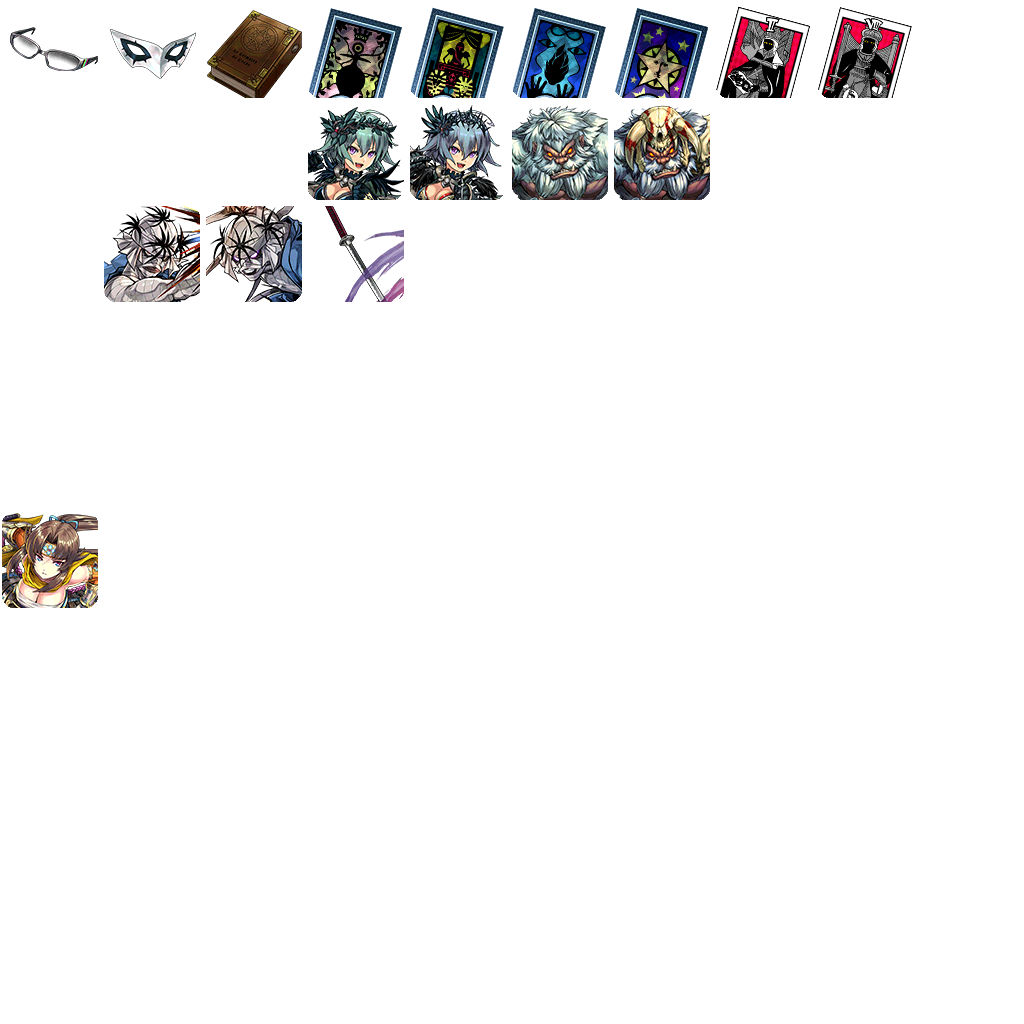
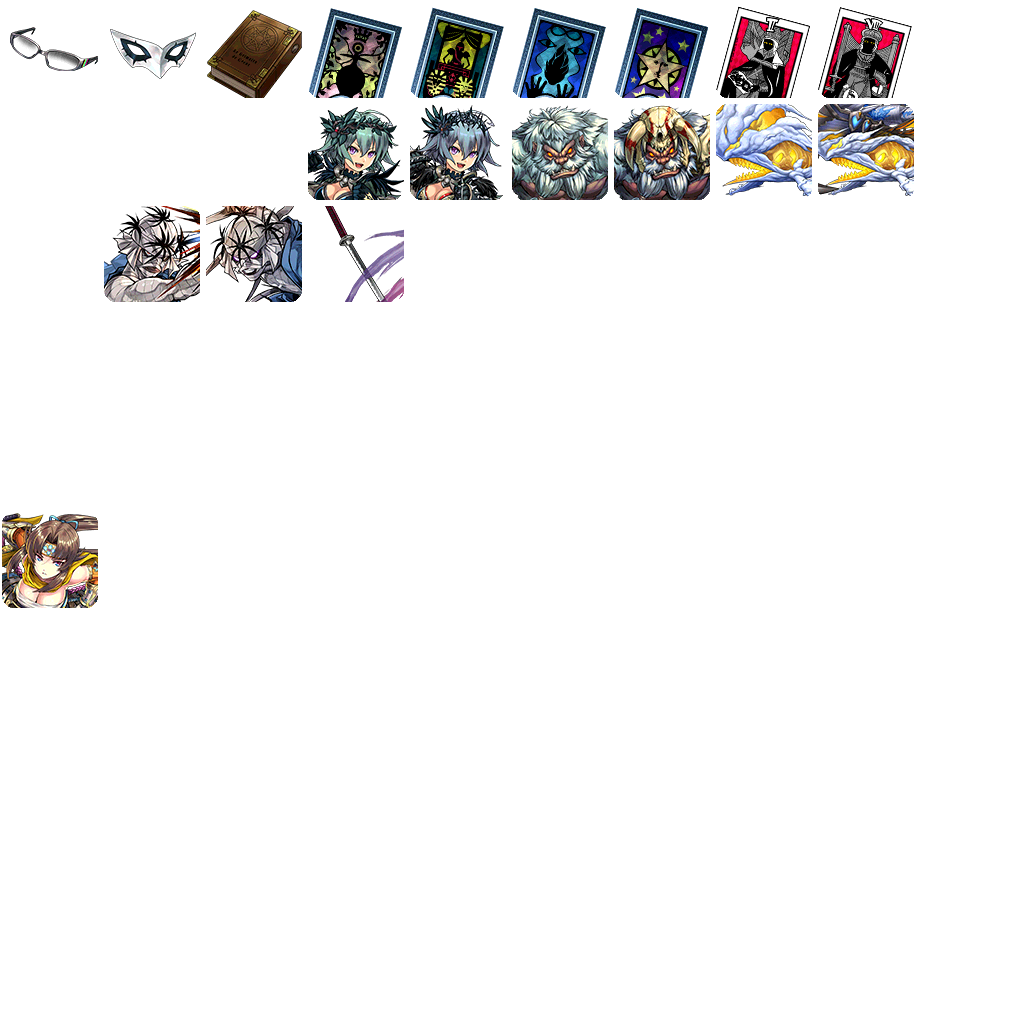
新增白鲸

Changed region(s): [[0.6875, 0.0938, 0.9062, 0.1875]]

diff --git a/生成二技宠物JSON.js b/生成二技宠物JSON.js
@@ -66,8 +66,6 @@ var monsterList = [
     {group: "未分类降临",ids: [
         2263, //刻薄的冻冥魔・靛蓝魔女
         3327, //妖精森之女王・蒂坦尼娅
-        4358, //灼林的魔獄獸・蠍獅
-        4417, //輝山之魔原獣・大腳怪
     ]},
     {group: "三神面转生",ids: [
         2898, //神去的毒蛇・耶梦加得=重生
@@ -113,6 +111,11 @@ var monsterList = [
         3017, //闘機帝・另一自由之靈
         3155, //闪机王・宇宙十字军
         3157, //閃機帝・另一宇宙十字軍
+    ]},
+    {group: "魔兽",ids: [
+        4358, //灼林的魔獄獸・蠍獅
+        4417, //輝山之魔原獣・大腳怪
+        4419, //雲天の魔海獣・白鯨
     ]},
     {group: "克苏鲁神话",ids: [
         3638, //化身恶梦之物・克苏鲁
